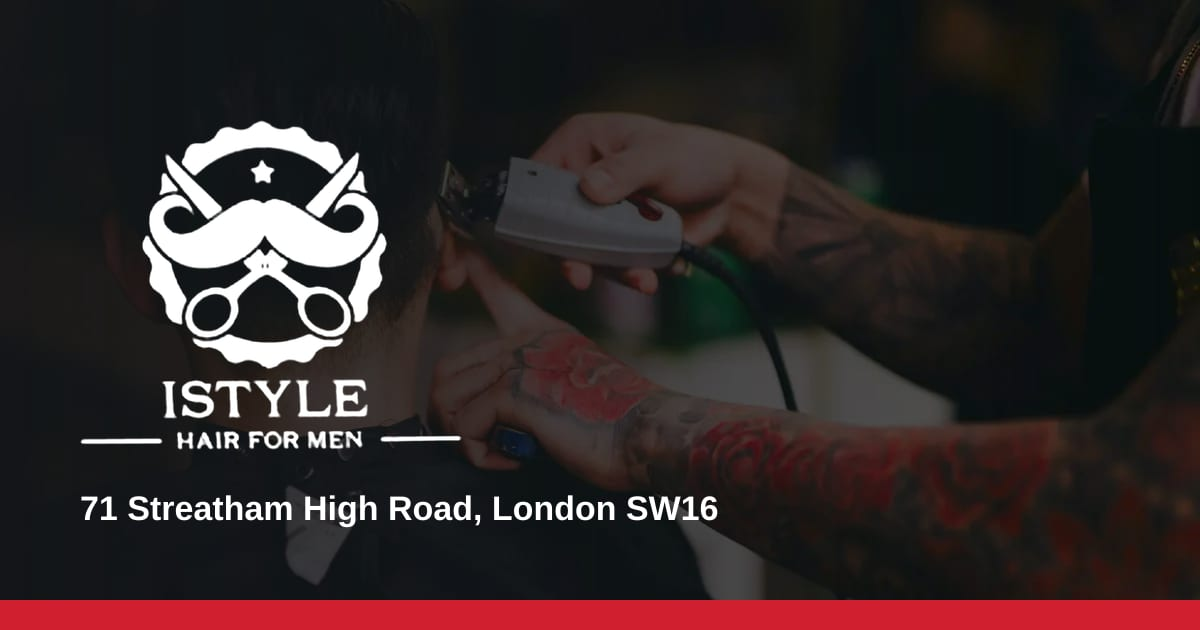
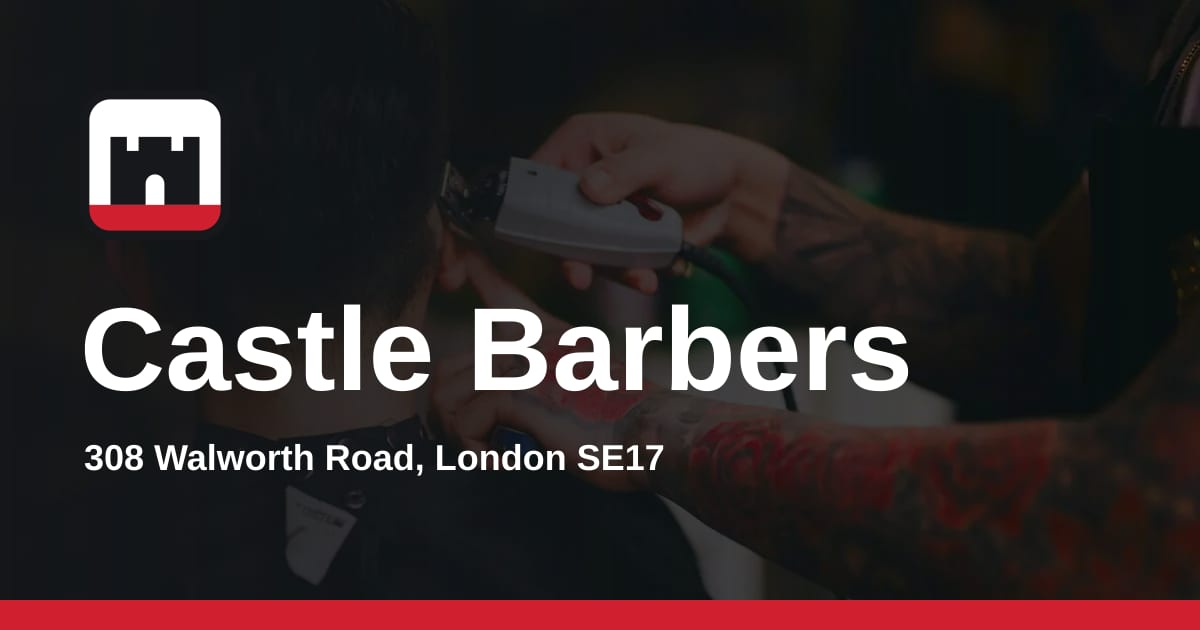
Switch site to Castle Barbers, 308 Walworth Road SE17
- Shop name, address, map, phone and nearby areas in config
- Hero title, street sign and copy read from config, not hard-coded
- New castle mark for logo and icons; new share image
- Remove the previous shop's logo files; hours left empty until confirmed

Claude-Session: https://claude.ai/code/session_01FM6eAzggazUYEwJ7pb2728

Changed region(s): [[0.0617, 0.1508, 0.7708, 0.754], [0.0617, 0.7841, 0.6167, 0.8444]]

diff --git a/styles.css b/styles.css
@@ -70,16 +70,8 @@ a { color: inherit; }
 .site-header { position: fixed; inset: 0 0 auto; z-index: 40; color: var(--white); transition: background .3s ease, box-shadow .3s ease; }
 .site-header.is-solid, .page .site-header { background: rgba(22,24,27,.92); backdrop-filter: blur(12px); -webkit-backdrop-filter: blur(12px); box-shadow: 0 1px 0 rgba(255,255,255,.08); }
 .header-inner { display: flex; align-items: center; justify-content: space-between; gap: 20px; height: 84px; }
-.brand { display: inline-flex; align-items: center; text-decoration: none; }
-.brand-logo { height: 70px; width: auto; transition: height .3s var(--ease); }
-.is-solid .brand-logo { height: 58px; }
-.footer-logo img { width: 150px; height: auto; }
-.brand-mark {
-  display: grid; place-items: center; width: 42px; height: 42px;
-  background: var(--white); color: var(--ink); border-radius: 6px;
-  font-weight: 900; font-stretch: 68%; font-size: 21px; padding-bottom: 6px;
-  box-shadow: inset 0 0 0 2px var(--white), inset 0 0 0 4px var(--ink), inset 0 -9px 0 var(--red);
-}
+.brand { display: inline-flex; align-items: center; gap: 12px; text-decoration: none; }
+.brand-mark { width: 44px; height: 44px; border-radius: 11px; }
 .brand-name { font-weight: 800; font-stretch: 72%; font-size: 26px; letter-spacing: -.005em; }
 .nav { display: flex; align-items: center; gap: 4px; font-size: 16px; font-weight: 600; }
 .nav a { padding: 10px 14px; border-radius: 999px; text-decoration: none; transition: background .2s ease; }
@@ -118,7 +110,7 @@ a { color: inherit; }
 .street-borough { color: var(--red); font-size: 12px; font-weight: 600; letter-spacing: .02em; }
 .street-name { color: var(--ink); font-weight: 800; font-stretch: 66%; font-size: clamp(30px, 3vw, 46px); line-height: 1; white-space: nowrap; }
 .street-district { color: var(--red); font-weight: 800; font-stretch: 66%; font-size: clamp(24px, 2.3vw, 34px); line-height: 1; }
-.street-number { position: absolute; right: -22px; top: -22px; display: grid; place-items: center; width: 64px; height: 64px; border-radius: 50%; background: var(--red); color: var(--white); font-weight: 900; font-stretch: 66%; font-size: 30px; transform: rotate(8deg); }
+.street-number { position: absolute; right: -26px; top: -26px; display: grid; place-items: center; width: 72px; height: 72px; border-radius: 50%; background: var(--red); color: var(--white); font-weight: 900; font-stretch: 66%; font-size: 30px; transform: rotate(8deg); }
 
 @keyframes settle { from { transform: scale(1.08); } to { transform: scale(1); } }
 @keyframes rise { from { opacity: 0; transform: translateY(40px); } to { opacity: 1; transform: none; } }

diff --git a/includes/header.php b/includes/header.php
@@ -14,9 +14,9 @@ $schema = [
     '@id'       => $base . '/#shop',
     'name'      => $site['name'],
     'url'       => $base . '/',
-    'logo'      => $base . '/images/logo-dark.png',
+    'logo'      => $base . '/apple-touch-icon.png',
     'image'     => [$base . '/images/hero.webp', $base . '/images/chair.webp'],
-    'description' => $site['name'] . ' is a men\'s barber shop on Streatham High Road in ' . $site['area'] . ', south London.',
+    'description' => $site['name'] . ' is a men\'s barber shop on ' . $site['road'] . ' in ' . $site['area'] . ', south London.',
     'address'   => [
         '@type' => 'PostalAddress',
         'streetAddress'   => $site['street'],
@@ -27,7 +27,7 @@ $schema = [
     ],
     'geo'        => ['@type' => 'GeoCoordinates', 'latitude' => $site['lat'], 'longitude' => $site['lng']],
     'hasMap'     => $site['maps_url'],
-    'areaServed' => [$site['area'], 'Streatham Hill', 'Brixton', 'Tooting', 'Norbury', 'Balham'],
+    'areaServed' => array_merge([$site['area']], $site['nearby']),
     'hasOfferCatalog' => [
         '@type' => 'OfferCatalog',
         'name'  => 'Barber services',
@@ -53,7 +53,7 @@ if ($sameAs) { $schema['sameAs'] = $sameAs; }
 <?php if ($noindex): ?><meta name="robots" content="noindex"><?php else: ?><meta name="robots" content="index, follow, max-image-preview:large"><?php endif; ?>
 <link rel="canonical" href="<?= e($canonical) ?>">
 <meta name="theme-color" content="#16181b">
-<meta name="geo.region" content="GB-LBH">
+<meta name="geo.region" content="<?= e($site['geo_region']) ?>">
 <meta name="geo.placename" content="<?= e($site['area'] . ', London') ?>">
 <meta name="geo.position" content="<?= e($site['lat'] . ';' . $site['lng']) ?>">
 <meta property="og:type" content="website">
@@ -66,9 +66,10 @@ if ($sameAs) { $schema['sameAs'] = $sameAs; }
 <meta property="og:image:width" content="1200">
 <meta property="og:image:height" content="630">
 <meta name="twitter:card" content="summary_large_image">
-<link rel="icon" href="/favicon.png?v=2" type="image/png" sizes="192x192">
-<link rel="shortcut icon" href="/favicon.ico?v=2">
-<link rel="apple-touch-icon" href="/apple-touch-icon.png?v=2">
+<link rel="icon" href="/favicon.svg?v=3" type="image/svg+xml">
+<link rel="icon" href="/favicon.png?v=3" type="image/png" sizes="192x192">
+<link rel="shortcut icon" href="/favicon.ico?v=3">
+<link rel="apple-touch-icon" href="/apple-touch-icon.png?v=3">
 <link rel="preload" href="/fonts/archivo.woff2" as="font" type="font/woff2" crossorigin>
 <link rel="stylesheet" href="/styles.css?v=<?= e((string) @filemtime(__DIR__ . '/../styles.css')) ?>">
 <script type="application/ld+json"><?= json_encode($schema, JSON_UNESCAPED_SLASHES | JSON_UNESCAPED_UNICODE | JSON_HEX_TAG) ?></script>
@@ -79,7 +80,8 @@ if ($sameAs) { $schema['sameAs'] = $sameAs; }
 <header class="site-header" data-header>
   <div class="wrap header-inner">
     <a class="brand" href="/" aria-label="<?= e($site['name']) ?> home">
-      <img class="brand-logo" src="/images/logo-white-sm.png" width="320" height="277" alt="<?= e($site['name']) ?>, hair for men">
+      <img class="brand-mark" src="/favicon.svg" width="44" height="44" alt="">
+      <span class="brand-name"><?= e($site['name']) ?></span>
     </a>
     <nav class="nav" id="site-nav" aria-label="Main">
       <a href="/#services">Services</a>

diff --git a/index.php b/index.php
@@ -25,15 +25,15 @@ $err = $contact['errors'];
       <img src="/images/hero.webp" width="2400" height="1600" alt="" fetchpriority="high">
     </picture>
     <div class="wrap hero-inner">
-      <p class="hero-place"><?= e($site['street']) ?>, <?= e($site['area']) ?></p>
+      <p class="hero-place"><?= e($site['street']) ?>, <?= e(explode(' ', $site['postcode'])[0]) ?></p>
       <?php if ($status = open_status($site)): ?>
         <p class="open-status <?= $status['open'] ? 'is-open' : 'is-closed' ?>"><span class="open-dot" aria-hidden="true"></span><?= e($status['text']) ?></p>
       <?php endif; ?>
       <h1 id="hero-title" class="hero-title">
-        <span class="hero-line">iStyle</span>
-        <span class="hero-line">Barbers</span>
+        <span class="hero-line"><?= e($site['name_first']) ?></span>
+        <span class="hero-line"><?= e($site['name_second']) ?></span>
       </h1>
-      <p class="hero-lede">Barber in Streatham, south London. Sharp cuts, clean fades and proper beard work on Streatham High Road.</p>
+      <p class="hero-lede">Barber in <?= e($site['area_long']) ?>. Sharp cuts, clean fades and proper beard work on <?= e($site['road']) ?>.</p>
       <div class="actions">
         <?php if ($site['booking_url'] !== ''): ?>
           <a class="button" href="<?= e($site['booking_url']) ?>" rel="noopener">Book an appointment</a>
@@ -48,9 +48,9 @@ $err = $contact['errors'];
 
     <div class="street-sign" aria-hidden="true">
       <span class="street-borough"><?= e($site['borough']) ?></span>
-      <span class="street-name">Streatham High Road</span>
-      <span class="street-district">SW16</span>
-      <span class="street-number">71</span>
+      <span class="street-name"><?= e($site['road']) ?></span>
+      <span class="street-district"><?= e(explode(' ', $site['postcode'])[0]) ?></span>
+      <span class="street-number"><?= e($site['number']) ?></span>
     </div>
   </section>
 
@@ -83,7 +83,7 @@ $err = $contact['errors'];
       </figure>
       <div class="intro-copy">
         <h2 id="intro-title">Your barber on the High Road.</h2>
-        <p>Walk down Streatham High Road and you'll find us at number 71. We cut men's and boys' hair with care, from a quick line-up to a full skin fade and beard shape.</p>
+        <p>Walk down <?= e($site['road']) ?> and you'll find us at number <?= e($site['number']) ?>. We cut men's and boys' hair with care, from a quick line-up to a full skin fade and beard shape.</p>
         <div class="actions intro-actions">
           <a class="button dark" href="#services">See our services</a>
           <a class="text-link" href="#gallery">View the gallery</a>
@@ -97,7 +97,7 @@ $err = $contact['errors'];
       <div class="section-head">
         <div>
           <h2 id="services-title">Services</h2>
-          <p class="services-intro">Men's and boys' haircuts, fades, beard trims and shaves at 71 Streatham High Road.</p>
+          <p class="services-intro">Men's and boys' haircuts, fades, beard trims and shaves at <?= e($site['street']) ?>.</p>
         </div>
         <?php if (!array_filter(array_column($site['services'], 'price'))): ?>
           <p>Ask in the shop for today's prices.</p>

diff --git a/includes/config.php b/includes/config.php
@@ -1,20 +1,27 @@
 <?php
-// iStyle Barbers: all shop details live here.
+// Castle Barbers: all shop details live here.
 // Leave a value as '' (empty) to hide it on the website.
 
 return [
-    'name'     => 'iStyle Barbers',
-    'street'   => '71 Streatham High Road',
+    'name'     => 'Castle Barbers',
+    'name_first' => 'Castle',   // hero title, line 1
+    'name_second' => 'Barbers', // hero title, line 2 (outlined)
+    'number'   => '308',
+    'road'     => 'Walworth Road',
+    'street'   => '308 Walworth Road',
     'city'     => 'London',
-    'postcode' => 'SW16 1PH',
-    'area'     => 'Streatham',
-    'borough'  => 'London Borough of Lambeth',
-    'lat'      => 51.4312477,
-    'lng'      => -0.1290934,
-    'maps_url' => 'https://maps.app.goo.gl/u2WsGJebPNdz1H3V6',
+    'postcode' => 'SE17 2NA',
+    'area'     => 'Walworth',
+    'area_long' => 'Walworth, near Elephant & Castle',
+    'borough'  => 'London Borough of Southwark',
+    'geo_region' => 'GB-SWK',
+    'nearby'   => ['Elephant and Castle', 'Kennington', 'Camberwell', 'Borough', 'Bermondsey'],
+    'lat'      => 51.4865108,
+    'lng'      => -0.0948609,
+    'maps_url' => 'https://maps.app.goo.gl/1Msx4ULX4FCzDp9q7',
 
     // Contact. Example: '+44 20 1234 5678'
-    'phone'     => '07377 636265',
+    'phone'     => '020 7701 8800',
     // Enquiries from the contact form go to this address. Empty = form hidden.
     'email'     => '',
     // Online booking link (Fresha, Booksy, etc.). Empty = "Book" buttons hidden.
@@ -23,16 +30,16 @@ return [
     'tiktok'      => '',
     'facebook'    => '',
 
-    // Opening hours. Example: 'Monday' => '9:00 – 19:00', 'Sunday' => 'Closed'.
+    // Opening hours. Example: 'Monday' => '', 'Sunday' => 'Closed'.
     // If every day is empty, the hours table is hidden.
     'hours' => [
-        'Monday'    => '9:00 – 20:00',
-        'Tuesday'   => '9:00 – 20:00',
-        'Wednesday' => '9:00 – 20:00',
-        'Thursday'  => '9:00 – 20:00',
-        'Friday'    => '9:00 – 20:00',
-        'Saturday'  => '9:00 – 20:00',
-        'Sunday'    => '10:00 – 17:30',
+        'Monday'    => '',
+        'Tuesday'   => '',
+        'Wednesday' => '',
+        'Thursday'  => '',
+        'Friday'    => '',
+        'Saturday'  => '',
+        'Sunday'    => '',
     ],
 
     // Services. 'price' example: '£20'. Empty price = not shown.

diff --git a/includes/footer.php b/includes/footer.php
@@ -1,11 +1,8 @@
 <?php /** @var array $site */ ?>
 <footer class="site-footer">
   <div class="wrap">
-    <p class="footer-wordmark" aria-hidden="true">iStyle Barbers</p>
+    <p class="footer-wordmark" aria-hidden="true"><?= e($site['name']) ?></p>
     <div class="footer-grid">
-      <div class="footer-logo">
-        <img src="/images/logo-white-sm.png" width="320" height="277" alt="<?= e($site['name']) ?>, hair for men" loading="lazy">
-      </div>
       <div>
         <h2>Visit</h2>
         <p><?= e($site['street']) ?><br><?= e($site['city'] . ' ' . $site['postcode']) ?></p>

diff --git a/sitemap.php b/sitemap.php
@@ -13,7 +13,6 @@ echo '<?xml version="1.0" encoding="UTF-8"?>', "\n";
     <lastmod><?= date('Y-m-d', max((int) @filemtime($file), (int) @filemtime(__DIR__ . '/includes/config.php'))) ?></lastmod>
 <?php if ($path === '/'): ?>
     <image:image><image:loc><?= e($base) ?>/images/hero.webp</image:loc></image:image>
-    <image:image><image:loc><?= e($base) ?>/images/logo-white.png</image:loc></image:image>
 <?php endif; ?>
   </url>
 <?php endforeach; ?>

diff --git a/README.md b/README.md
@@ -1,4 +1,4 @@
-# iStyle Barbers website
+# Castle Barbers website
 
 PHP site. All shop details (phone, email, hours, prices, booking link, social links)
 live in `includes/config.php`. Leave a value empty to hide it on the site.
